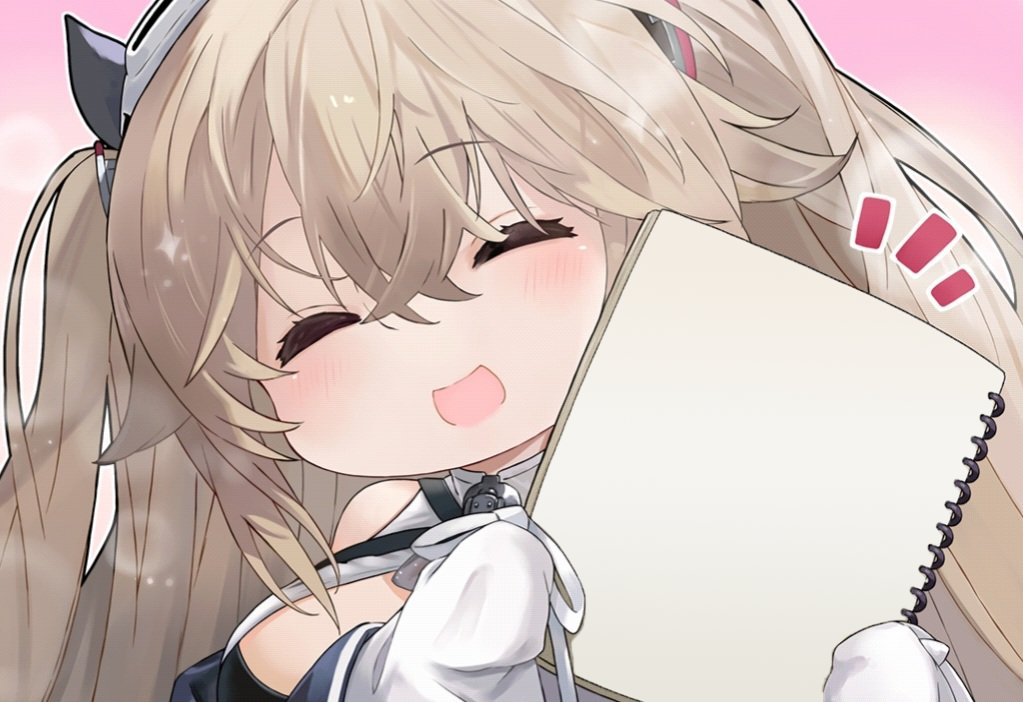
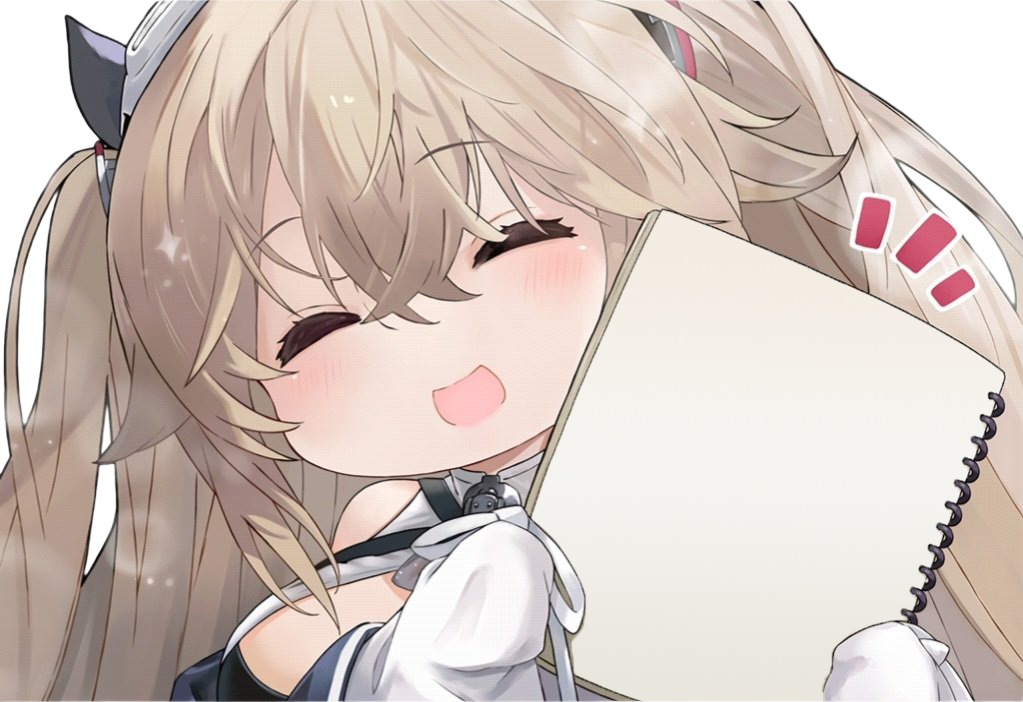
Date and time

diff --git a/src/App.jsx b/src/App.jsx
@@ -1,0 +1,38 @@
+// import logo from './logo.svg';
+import { useEffect, useState } from 'react';
+import './App.css';
+
+function App() {
+  const anchorageAspectRadio = 1023/702;
+  const [width, setWidth] = useState(window.innerWidth);
+  const [height, setHeight] = useState(window.innerHeight);
+  const [date,setDate] = useState(new Date());  
+  const pad0 = (i)=>(i<10)?"0"+i:i;
+  const dateString = `${date.getFullYear()}/${pad0(date.getMonth()+1)}/${pad0(date.getDate())}`;
+  const timeString = `${pad0(date.getHours())}:${pad0(date.getMinutes())}:${pad0(date.getSeconds())}`;
+    
+  useEffect(() => {
+      var timer = setInterval(()=>setDate(new Date()), 1000)
+      window.addEventListener('resize', handleResize);
+      return function cleanup() {
+          clearInterval(timer)
+      }    
+  }, []);
+
+  const handleResize = () => {
+    setWidth(window.innerWidth);
+    setHeight(window.innerHeight);
+    console.log(width, height)
+  }
+
+  return (<>
+    <div id="bg"></div>
+    <img id="anchorage" src='/pic/AnchorageP.png' style={{left: (width-height*anchorageAspectRadio)/2}} />   
+    <div id="book" style={{left: (width-height*anchorageAspectRadio)/2+888}}>
+      <div id="date">{dateString}</div>
+      <div id="time">{timeString}</div>
+    </div> 
+  </>);
+}
+
+export default App;

diff --git a/src/App.css b/src/App.css
@@ -1,38 +1,30 @@
-.App {
-  text-align: center;
+#bg
+{
+  position: absolute;
+  top: 0;
+  left: 0;
+  width: 100%;
+  height: 100%;
+  background: #000;
+  z-index: 0;
+  background: radial-gradient(circle at center, #ffffff 55%, #fbbfdd 100%);
 }
 
-.App-logo {
-  height: 40vmin;
-  pointer-events: none;
+#anchorage
+{
+  position: absolute;
+  top: 0;
+  /* left: 0; */
+  height: 100vh; /* == height */
 }
 
-@media (prefers-reduced-motion: no-preference) {
-  .App-logo {
-    animation: App-logo-spin infinite 20s linear;
-  }
-}
-
-.App-header {
-  background-color: #282c34;
-  min-height: 100vh;
-  display: flex;
-  flex-direction: column;
-  align-items: center;
-  justify-content: center;
-  font-size: calc(10px + 2vmin);
-  color: white;
-}
-
-.App-link {
-  color: #61dafb;
-}
-
-@keyframes App-logo-spin {
-  from {
-    transform: rotate(0deg);
-  }
-  to {
-    transform: rotate(360deg);
-  }
+#book
+{
+  position: absolute;
+  /* left: 888px; */
+  top: 388px;
+  font-size: 65px;
+  color: #35978d;
+  rotate: 24deg;
+  /* font-weight: bold; */
 }

diff --git a/src/index.css b/src/index.css
@@ -1,13 +1,13 @@
+@import url('https://fonts.googleapis.com/css2?family=Itim&display=swap');
+
 body {
   margin: 0;
-  font-family: -apple-system, BlinkMacSystemFont, 'Segoe UI', 'Roboto', 'Oxygen',
-    'Ubuntu', 'Cantarell', 'Fira Sans', 'Droid Sans', 'Helvetica Neue',
-    sans-serif;
+  font-family: 'Itim', fantasy;
   -webkit-font-smoothing: antialiased;
   -moz-osx-font-smoothing: grayscale;
-}
-
-code {
-  font-family: source-code-pro, Menlo, Monaco, Consolas, 'Courier New',
-    monospace;
+  position: relative;
+  width: 100vw;
+  height: 100vh;
+  overflow: hidden;
+  text-align: center;
 }
